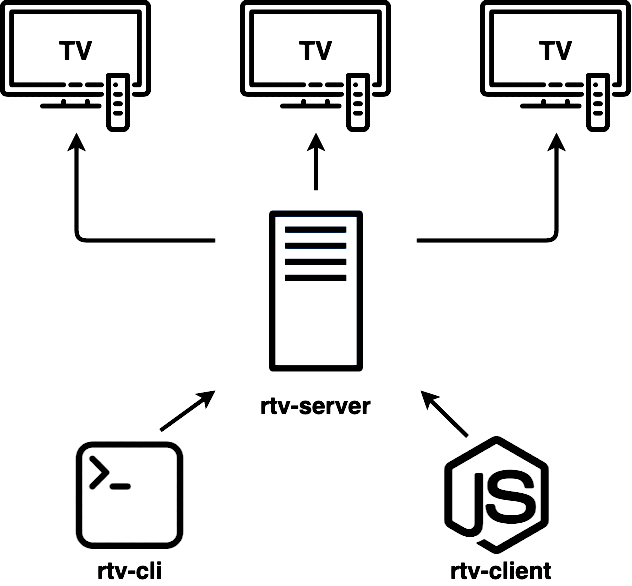
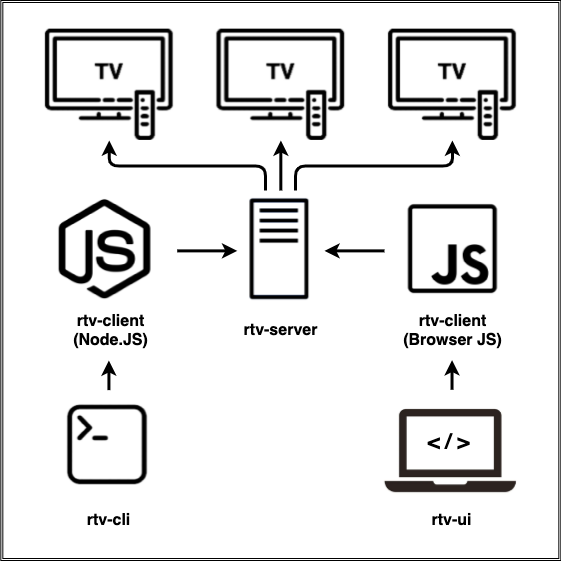
update READMEs

diff --git a/README.md b/README.md
@@ -1,20 +1,24 @@
 # Remote TV control for developers
+
 Tools for Smart TV developers.
 
 ![scheme](img/scheme.png)
 
 ## Supported platforms
 
-* Samsung Tizen
-* LG WebOs
+- Samsung Tizen
+- LG WebOS
+- PlayStation4 DevKit/TestKit
+- Samsung Orsay 2014+
 
-## Setup
-1. Install and configure [rtv-server](packages/server/README.md)
-2. Install and configure [rtv-cli](packages/cli/README.md)
-3. For programmatic usage with Node.js please Install [rtv-client](packages/client/README.md)
+## Usage
 
-## Run RTV in container
+### Run RTV in Docker
+
+The easiest way to run RTV is to run it in Docker container. It contains [Samsung Tizen CLI](https://developer.samsung.com/smarttv/develop/getting-started/using-sdk/command-line-interface.html) and [LG webOS CLI](https://webostv.developer.lge.com/sdk/installation/download-installer/).
+
 On Linux:
+
 ```bash
    docker run -it \
       -e USER=rtv \
@@ -26,6 +30,7 @@ On Linux:
 ```
 
 On MacOS:
+
 ```bash
    docker run -it \
       -e USER=rtv \
@@ -35,117 +40,140 @@ On MacOS:
       -v tvdata:/home/developer \
       kinopoisk/rtv
 ```
+
 Note: NETWORK_MODE=host allows to scan and wake on LAN TVs, but doesn't work on MacOS.
 
 Note: `WEBOS_ACCOUNT_LOGIN` and `WEBOS_ACCOUNT_PASSWORD` are required only for WebOS TVs.
 They should be created [here](https://us.lgaccount.com/) and are used for login in WebOS Developer Mode application.
 
-## Usage
+### Setup without Docker
 
-### List all connected TVs
-```bash
-> rtv list
-
-platform  ip           alias     name            modelYear  resolution  developerMode  developerIP  hasAccess  lastUsed
---------  -----------  --------- --------------  ---------  ----------  -------------  -----------  ---------  ----------------------
-tizen     192.168.0.2  tizen23   [TV] Tizen 2.3  17         1920x1080   true           92.168.0.1   false      unknown
-tizen     192.168.0.3  tizen24   [TV] Tizen 2.4  17         1920x1080   true           92.168.0.1   false      user (/api/tv/logs 1m)
-```
-
-### Get TV info by IP or alias
-```bash
-> rtv info 192.168.0.4
-
-key            value
--------------  ------------
-platform       tizen
-ip             192.168.0.4
-alias          tizen4
-name           [TV] Tizen 4
-modelName      UE49K5500
-modelYear      16
-resolution     1920x1080
-developerMode  true
-developerIP    192.168.0.1
-hasAccess      true
-osVersion      2.4.0
-```
-
-### List all TV apps
-```bash
-> rtv app-list 192.168.0.4
-
-appId        name
------------  -----------
-11091000000  Facebook
-11101000410  Vimeo
-11101200001  Netflix
-11101302013  Dailymotion
-...
-```
-
-### Install app on TV
-* From packaged file (`.wgt` for Tizen, `.ipk` for WebOS):
-   ```bash
-   > rtv app-install 192.168.0.4 App.wgt
-   ```
-* From ZIP file:
-   ```bash
-   > rtv app-install 192.168.0.4 App.zip
-   ```
-* From directory:
-   ```bash
-   > rtv app-install 192.168.0.4 ./path/to/app
-   ```
-
-### Launch app on TV
-```bash
-> rtv app-launch 192.168.0.4 TESTABCDEF.App
-```
-
-Launch with params:
-```bash
-> rtv app-launch 192.168.0.4 TESTABCDEF.App "{\"param\": \"...\"}"
-```
-
-### Debug app on TV with devtools
-```bash
-> rtv app-debug 192.168.0.4 TESTABCDEF.App
-
-key       value
---------  ----------------------------------------------------------------------------------------------------------------
-debugUrl  https://rtv-server-host/devtools/inspector.html?page=1&host=rtv-server-host/proxy/http/192.168.0.4/7011/
-```
-Open provided link in Chrome and debug app with devtools.
-
-### More commands
-```bash
-> rtv help
-```
+1. Install and configure [rtv-server](packages/server/README.md)
+2.
+3. Install and configure [rtv-cli](packages/cli/README.md)
+4. For programmatic usage with Node.JS or Browser JS please install [rtv-client](packages/client/README.md)
 
 ## Development
-`npm install` - installs dependencies
-`npm run bootstrap` - does lerna bootstrap
-`npm run dev` - builds packages and runs server in watch mode
 
-#### Development in docker
+### Development without Docker
+
+1. Install necessary SDK:
+
+   - [Samsung Tizen CLI](https://developer.samsung.com/smarttv/develop/getting-started/using-sdk/command-line-interface.html)
+   - [LG webOS CLI](https://webostv.developer.lge.com/sdk/installation/download-installer/)
+
+2. `nvm use` - use needed version of Node.JS via [Node Version Manager](https://github.com/nvm-sh/nvm)
+3. Install dependencies:
+   `npm install`
+   `npm run bootstrap`
+4. `npm run dev` - builds packages and runs server in watch mode
+
+#### Development in Docker
+
 1. Install [docker-compose](https://docs.docker.com/compose/install/)
 2. Build image: `npm run docker:build`
 3. Run docker container: `npm run docker:up`
 4. Open RTV UI locally: http://localhost:3000
 
 ## Release
+
 Releases goes separately to npm and docker registry.
 Try keep them in sync.
 
 #### Release to npm
+
 1. Run tests: `npm t`
 2. Bump version: `npm run release-minor` | `npm run release-patch`
 3. Publish to npm: `npm run publish`
 4. Push to GitHub: `git push`
 
 #### Release Docker image
+
 1. Build image: `npm run docker:build`
 2. Run tests in container: `npm run docker:test`
 3. Tag image: `docker tag rtv:latest kinopoisk/rtv:latest`
 4. Push image to registry: `IMAGE=kinopoisk/rtv:latest npm run docker:push`
+
+## Adding new TV
+It is necessary that the working computer and the TV are on the same local network.
+
+#### Adding and configuring Tizen (Samsung)
+
+1. In RTV UI settings ({YOUR_RTV_SERVER}/settings/tv) manually add a TV (by `New TV` button).
+   Specify `IP`, `alias` and `platform` and save. For instance:
+
+    ```
+      IP = 192.168.1.66 (on the TV Settings -> General -> Network -> Network Status -> IP Settings)
+      alias = tizentv (or whatever)
+      platform = tizen
+    ```
+
+2. Specify `Developer IP` on the TV:
+    - open `Apps` (application `Applications` on the TV)
+    - press the buttons on the `12345` remote control in turn until the input window appears (it may not work the first time)
+    - in the window that appears, enable `Developer mode`, if it is not enabled yet, and enter the ip address of your rtv-server as Developer IP
+    - reboot the TV (long press the power button on the remote)
+
+#### Adding and configuring Webos (LG)
+
+1. In RTV UI settings ({YOUR_RTV_SERVER}/settings/tv) manually add your TVs (the `New TV` button).
+    Specify `IP`, `alias` and `platform` and save. For instance:
+    ```
+      IP = 192.168.1.12 (on the TV usually `Settings` -> `Connection` -> `Network` -> `Wired connection (or Wi-Fi connection)` -> `Advanced settings`)
+      alias = webostv (or whatever)
+      platform = webos
+    ```
+2. [Install Developer Mode App](https://webostv.developer.lge.com/develop/app-test/using-devmode-app/#installDevModeApp) on TV if not installed.
+3. On the RTV UI main screen select the added TV from the drop-down list and press the `Dev Mode` button if an LG account was specified when starting RTV, or log in manually.
+4. Enable `Key Server` in Developer Mode:
+
+   ![dev-mode](img/key-server-webos.png)
+
+5. In the settings ({YOUR_RTV_SERVER}/settings/tv) on the TV, add the `Passphrase` field from the TV screen.
+
+#### Adding and configuring Orsay 2014+ (Legacy Samsung)
+1. In RTV UI settings ({YOUR_RTV_SERVER}/settings/tv) manually add a TV set (the `New TV` button).
+   Specify `IP`, `alias` and `platform` and save. For instance:
+
+    ```
+      IP = 192.168.37.1 (on the TV Settings -> Network -> Network Status -> IP Settings)
+      alias = orsaytv (or whatever)
+      platform = orsay
+    ```
+
+2. Specify `Developer IP` on the TV:
+    - open `Menu`->`Smart Hub`->`Samsung Account`->`Login`->`Login`
+    - In the applications menu (Samsung Apps), long press on any application, select `IP Settings`, and enter the IP address of your working computer as Developer IP
+
+#### Adding and configuring PlayStation4 DevKit/TestKit
+   In RTV UI settings ({YOUR_RTV_SERVER}/settings/tv) manually add a PlayStation (by `New TV` button).
+   Specify `IP`, `alias` and `platform` and save. For instance:
+
+    ```
+      IP = 192.168.1.66
+      alias = ps (or whatever)
+      platform = playstation
+    ```
+
+#### Adding and running the application
+1. In RTV UI settings ({YOUR_RTV_SERVER}/settings/tv) add your application (the `New App` button):
+
+    ```
+    alias=app (or whatever)
+    Tizen ID = {TIZEN_ID} if exists
+    Webos ID = {WEBOS_ID} if exists
+    Orsay ID = {ORSAY_ID} if exists
+    PS ID = {PLAYSTATION_ID} if exists
+    ```
+
+2. Install the package on the TV. For now, the easiest way to do this is through RTV UI:
+    - select the desired TV in the drop-down list
+    - click the `Install` button below and specify the path to the package.
+
+    For Orsay, the installer uploads the package to the rtv-server. To download to TV, you need to additionally synchronize uploaded applications: in the application menu (Samsung Apps), you need to call the context menu on any application and click `Start User App Sync`. Dev mode must be running for this item to be available.
+
+    If when running on Webos there is an error like "ares-install ERR! ares-install: Error: All configured authentication methods failed",
+    then you need to re-request the ssh key from the TV set with the `Key Server` enabled in the Develper Mode application. To do this, enable the key server and change the passphrase in RTV UI settings ({YOUR_RTV_SERVER}/settings/tv) to the wrong one, then back to the correct one.
+
+3. Application launch:
+    - via `Launch` or `Debug` button in RTV UI. You can pass launch params also. You should process theese params on your application side.

diff --git a/packages/ui/README.md b/packages/ui/README.md
@@ -1,46 +1,28 @@
-# Getting Started with Create React App
+# RTV UI
 
-This project was bootstrapped with [Create React App](https://github.com/facebook/create-react-app).
+Remote TV management UI
 
-## Available Scripts
+# Development
 
 In the project directory, you can run:
 
-### `npm start`
+### `npm run dev`
 
 Runs the app in the development mode.\
-Open [http://localhost:3000](http://localhost:3000) to view it in the browser.
+Open [http://localhost:3001](http://localhost:3001) to view it in the browser.
 
-The page will reload if you make edits.\
-You will also see any lint errors in the console.
-
-### `npm test`
-
-Launches the test runner in the interactive watch mode.\
-See the section about [running tests](https://facebook.github.io/create-react-app/docs/running-tests) for more information.
+# Build
 
 ### `npm run build`
 
 Builds the app for production to the `build` folder.\
 It correctly bundles React in production mode and optimizes the build for the best performance.
 
-The build is minified and the filenames include the hashes.\
-Your app is ready to be deployed!
+# Configuration
 
-See the section about [deployment](https://facebook.github.io/create-react-app/docs/deployment) for more information.
+### `REACT_APP_API_URL`
 
-### `npm run eject`
+Specifies the apiUrl of rtv-client
 
-**Note: this is a one-way operation. Once you `eject`, you can’t go back!**
-
-If you aren’t satisfied with the build tool and configuration choices, you can `eject` at any time. This command will remove the single build dependency from your project.
-
-Instead, it will copy all the configuration files and the transitive dependencies (webpack, Babel, ESLint, etc) right into your project so you have full control over them. All of the commands except `eject` will still work, but they will point to the copied scripts so you can tweak them. At this point you’re on your own.
-
-You don’t have to ever use `eject`. The curated feature set is suitable for small and middle deployments, and you shouldn’t feel obligated to use this feature. However we understand that this tool wouldn’t be useful if you couldn’t customize it when you are ready for it.
-
-## Learn More
-
-You can learn more in the [Create React App documentation](https://facebook.github.io/create-react-app/docs/getting-started).
-
-To learn React, check out the [React documentation](https://reactjs.org/).
+`REACT_APP_API_URL=/api` - when app is built for production using `npm run build`
+`REACT_APP_API_URL=http://localhost:3000/api` - When app is executed in dev mode using `npm run dev`
